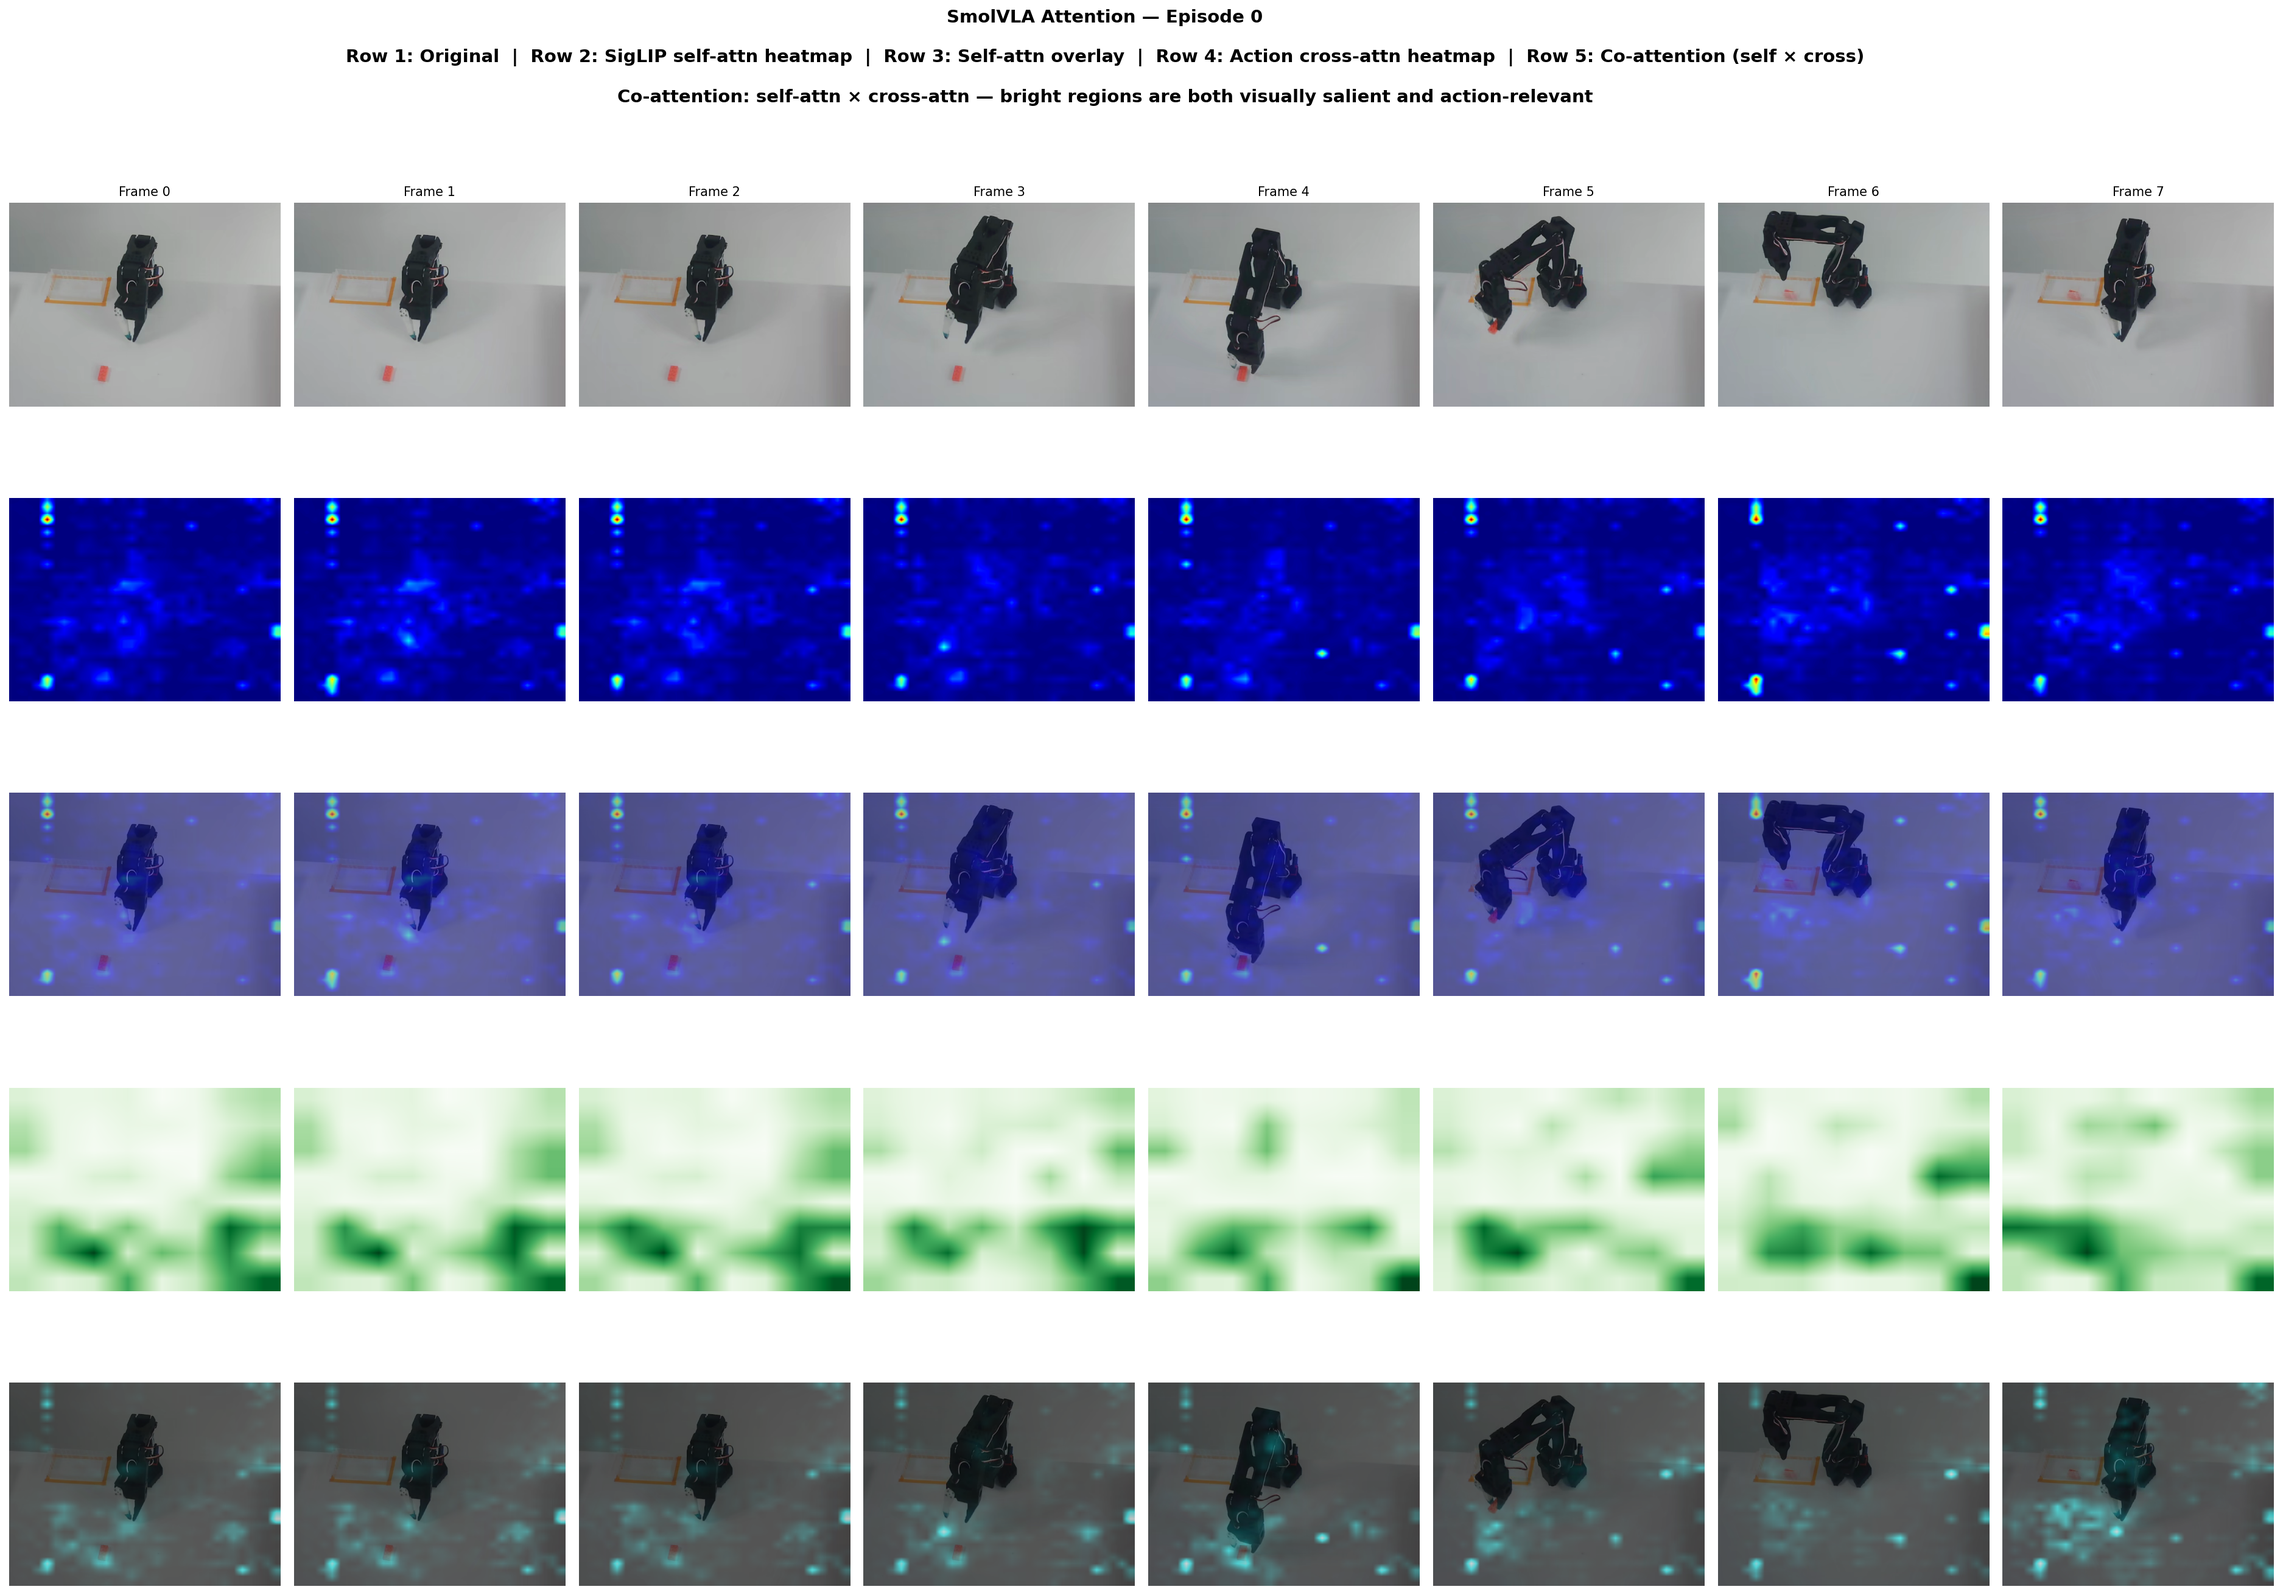
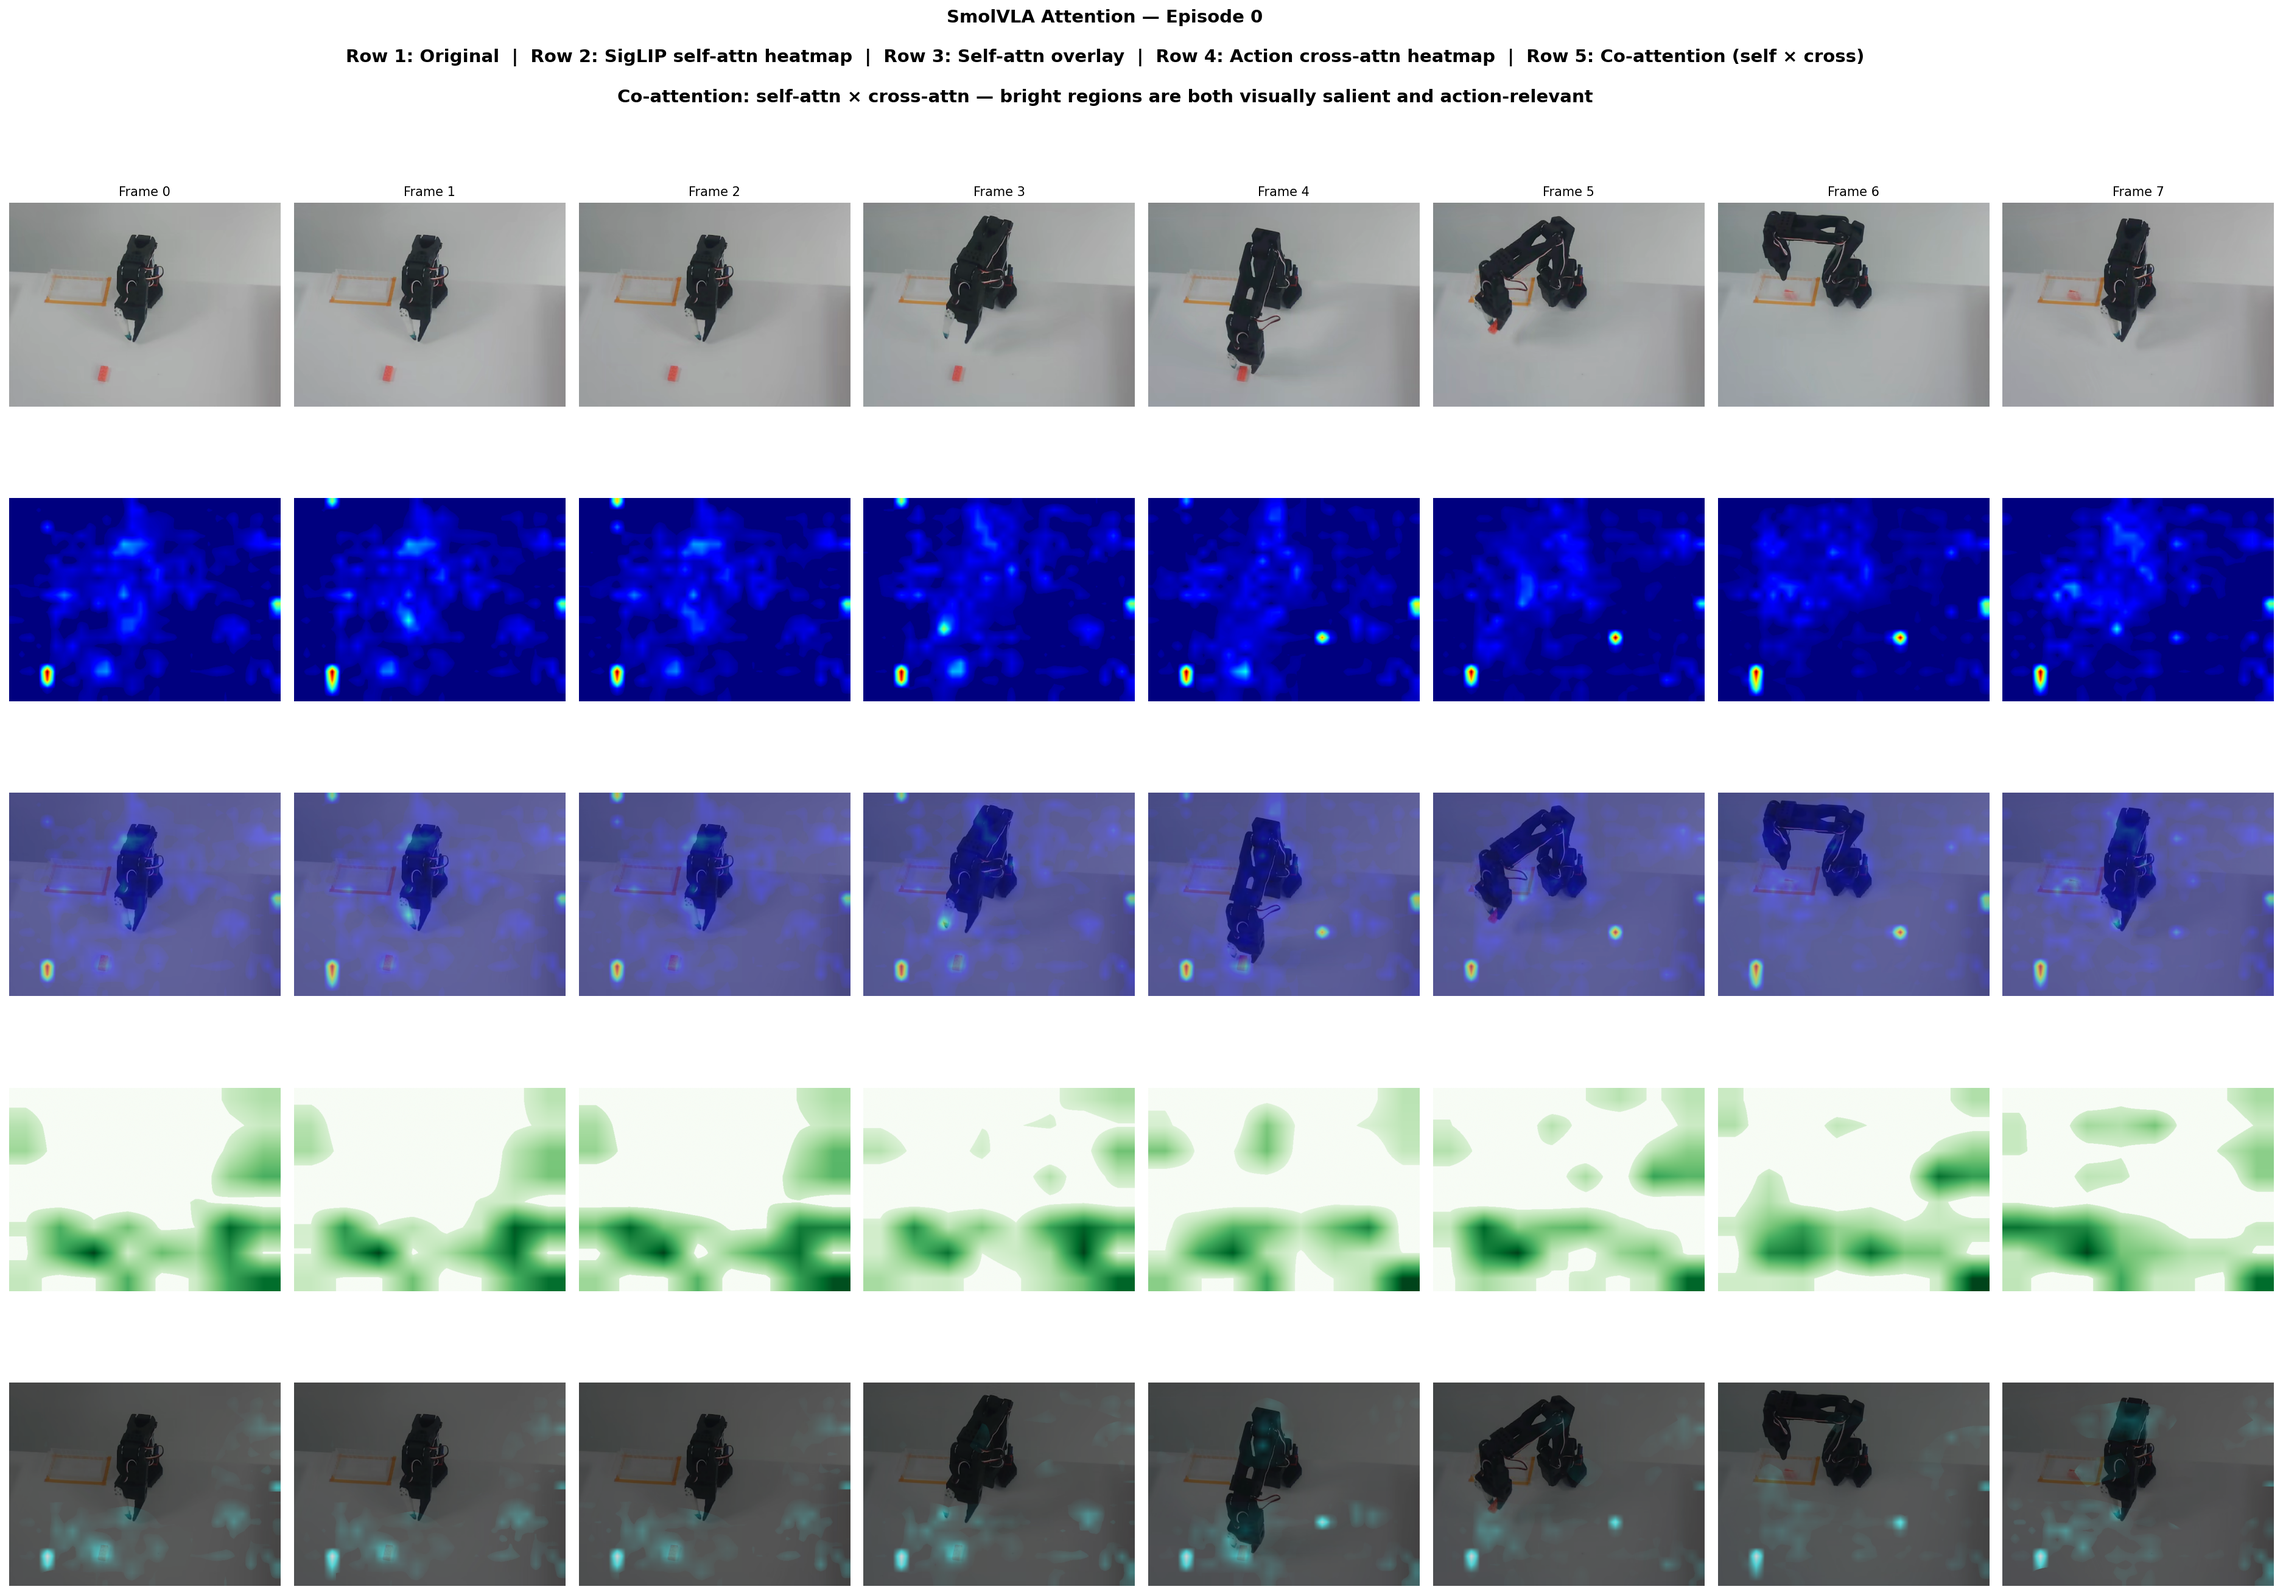
Refresh README assets with threshold-corrected heatmaps
Regenerated example_grid.png and example_per_head.png from the default
run, now reflecting percentile thresholding and per-head baseline
subtraction. Added example_positional_baseline.png showing the
gray-image attention pattern and referenced it in the pipeline section.

diff --git a/README.md b/README.md
@@ -63,6 +63,9 @@ For a detailed visual walkthrough of the architecture and how it maps to the rep
 
 5. **Turn attention into spatial heatmaps** -- patch-level importance scores are reshaped into a 2D grid, upsampled with bilinear interpolation to image size, and normalized to [0, 1]. A percentile threshold (`--attn-threshold`, default 0.5) then zeros out low-attention values to suppress residual positional noise from SigLIP's learned position embeddings, and re-normalizes the remainder.
 
+   ![Positional baseline](assets/example_positional_baseline.png)
+   *Positional baseline diagnostic: attention pattern from a content-free gray image, showing position-dependent artifacts that get subtracted from real frames.*
+
 6. **Visualize** -- the output grid has up to 5 rows per frame:
 
 | Row | Content | Colormap |
